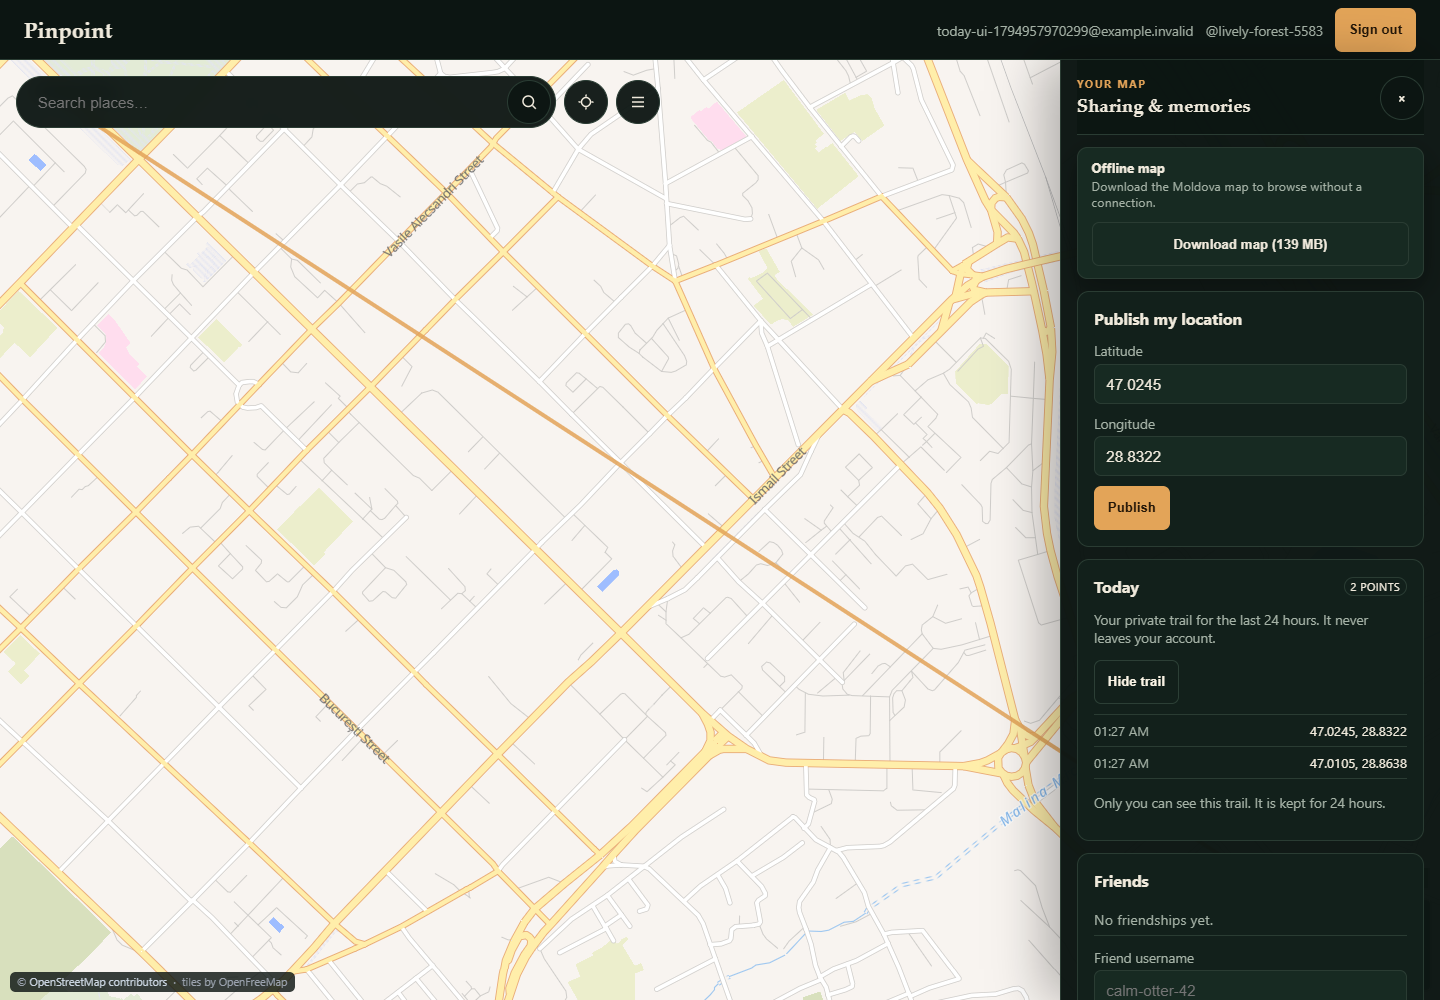
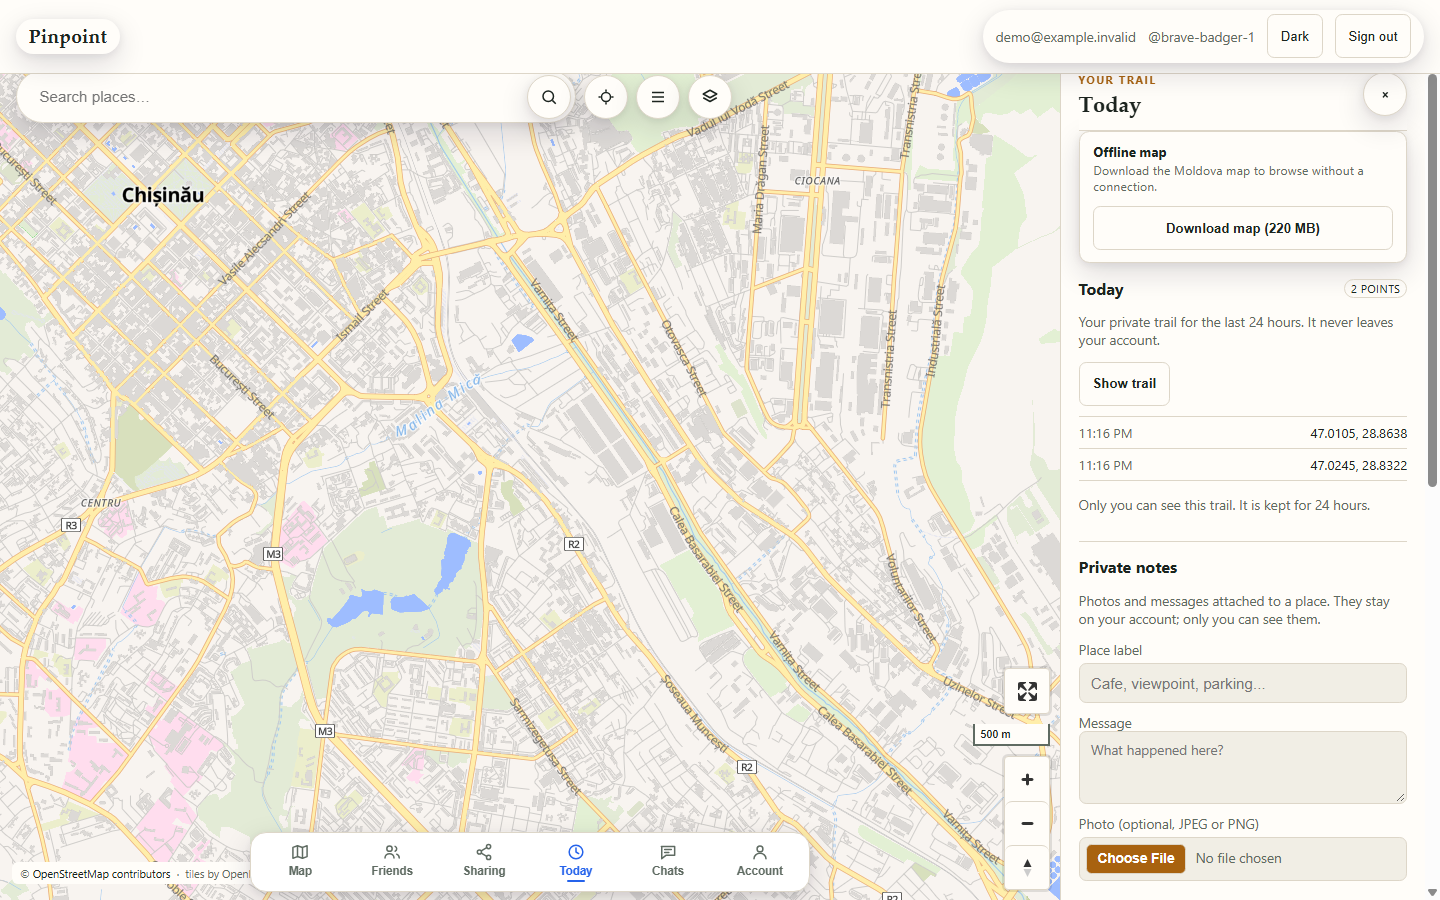
[DOCS] midterm2: refresh the Today and notes screenshots (#380)

diff --git a/CHANGELOG.md b/CHANGELOG.md
@@ -42,7 +42,7 @@ The per-item flagged list for this release is in
 - [INFRA] Dependency audit: `audit.toml` records nine unmaintained or unsound transitive advisories with no fixed upgrade as accepted risk, so `cargo audit` passes with no open vulnerability.
 ### Added
 - [FEATURE] Web map: right-click/long-press actions (directions from/to here, measure from here, add note, copy coordinates) and a distance tool with numbered points, live total, undo and clear; `web/app/measure.js` is a pure module served same-origin.
-- [FEATURE] Web: wide screens now keep the section cards in a right column with a full-bleed map and top-left search, MapLibre gains compass/pitch and fullscreen, and the zoom/fullscreen controls stay clear of the mobile tab bar; the Midterm 2 desktop/mobile map screenshots were regenerated from this build.
+- [FEATURE] Web: wide screens now keep the section cards in a right column with a full-bleed map and top-left search, MapLibre gains compass/pitch and fullscreen, and the zoom/fullscreen controls stay clear of the mobile tab bar; the Midterm 2 map, Today and notes screenshots were regenerated from this build.
 - [FEATURE] Native: the friend list on the map screen now says how old each location is (`just now`, `5m ago`, `2d ago`), matching the web client and using the existing freshness thresholds.
 - [FEATURE] Web: the friend-locations list now says how long ago each friend last shared a location (`just now`, `5m ago`, `2d ago`), so stale data is not mistaken for a live position.
 - [FEATURE] Auth: optional Google OAuth 2.0 sign-in (authorization code + PKCE) with a single-use state bound to an HttpOnly cookie, a verified-email requirement, no automatic email linking, the same opaque session as password login, and an anonymous per-client throttle; disabled unless the client credentials are configured.
